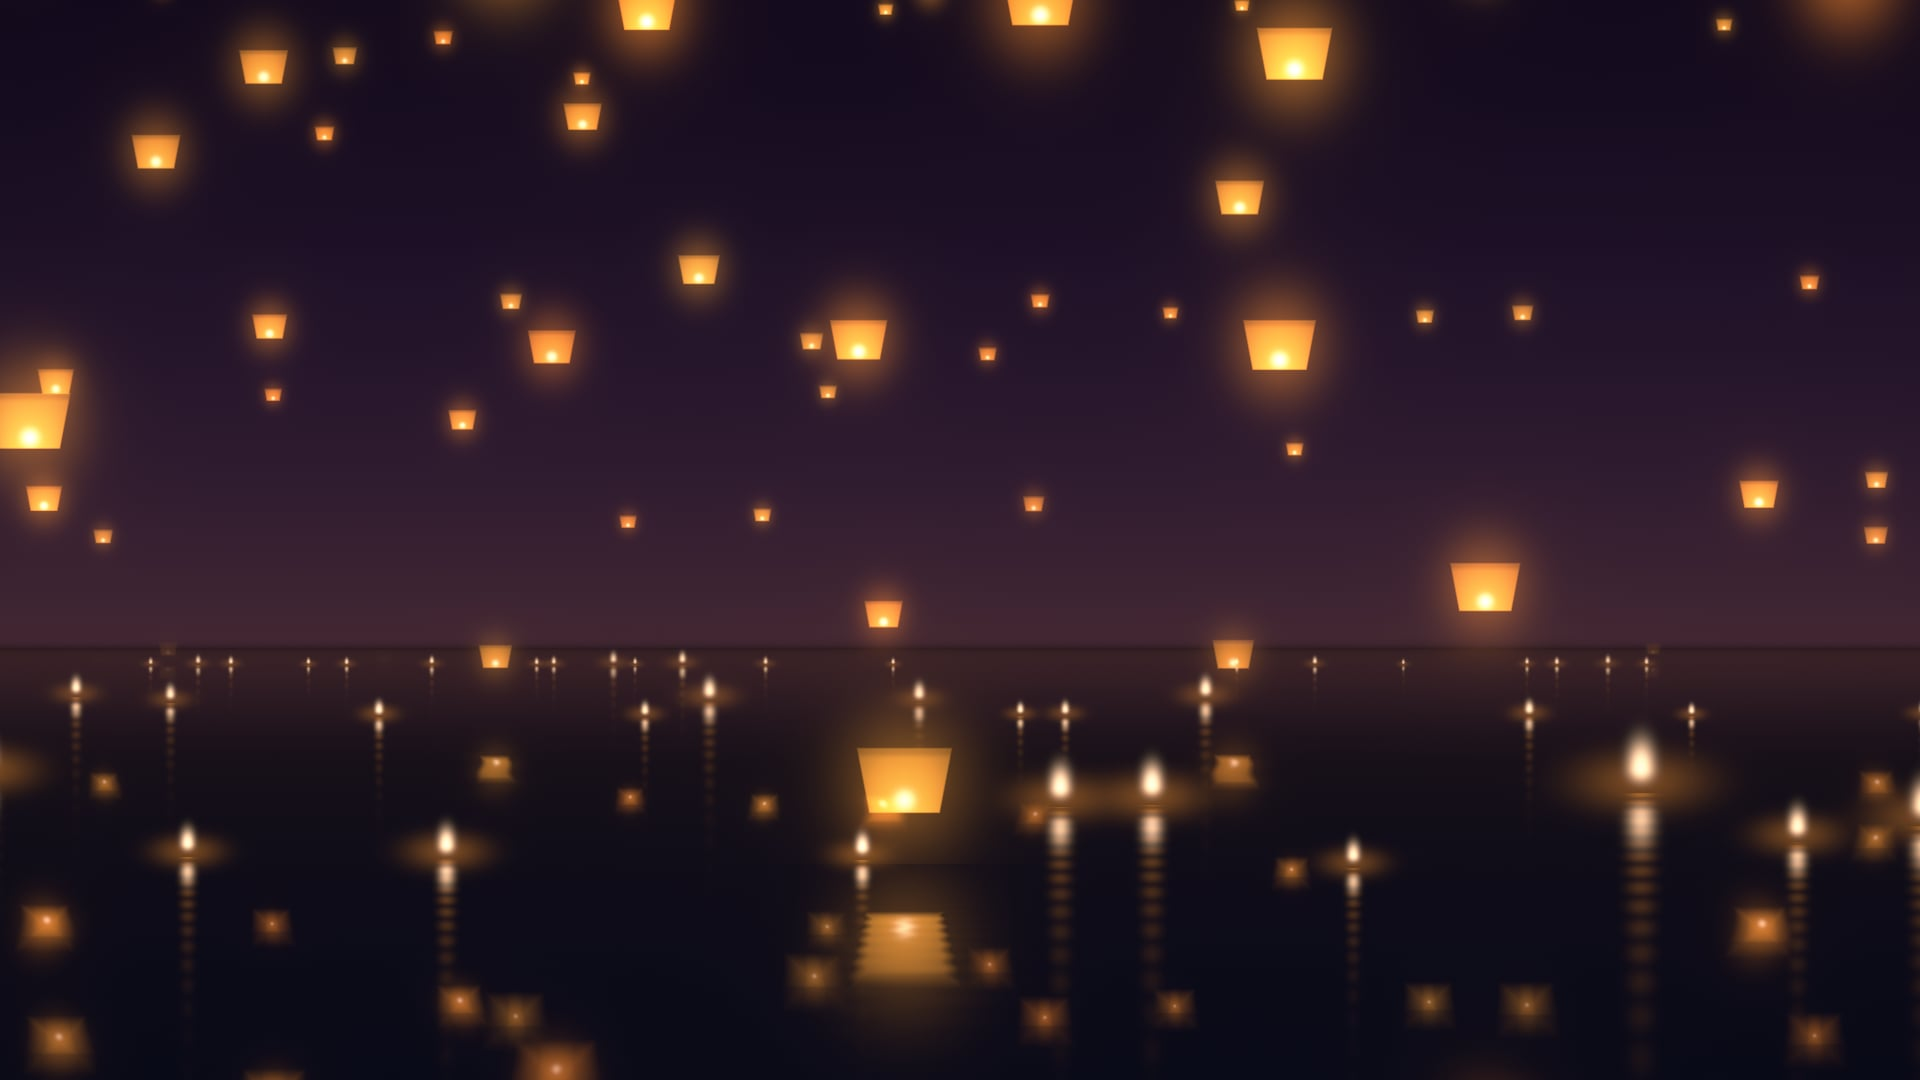
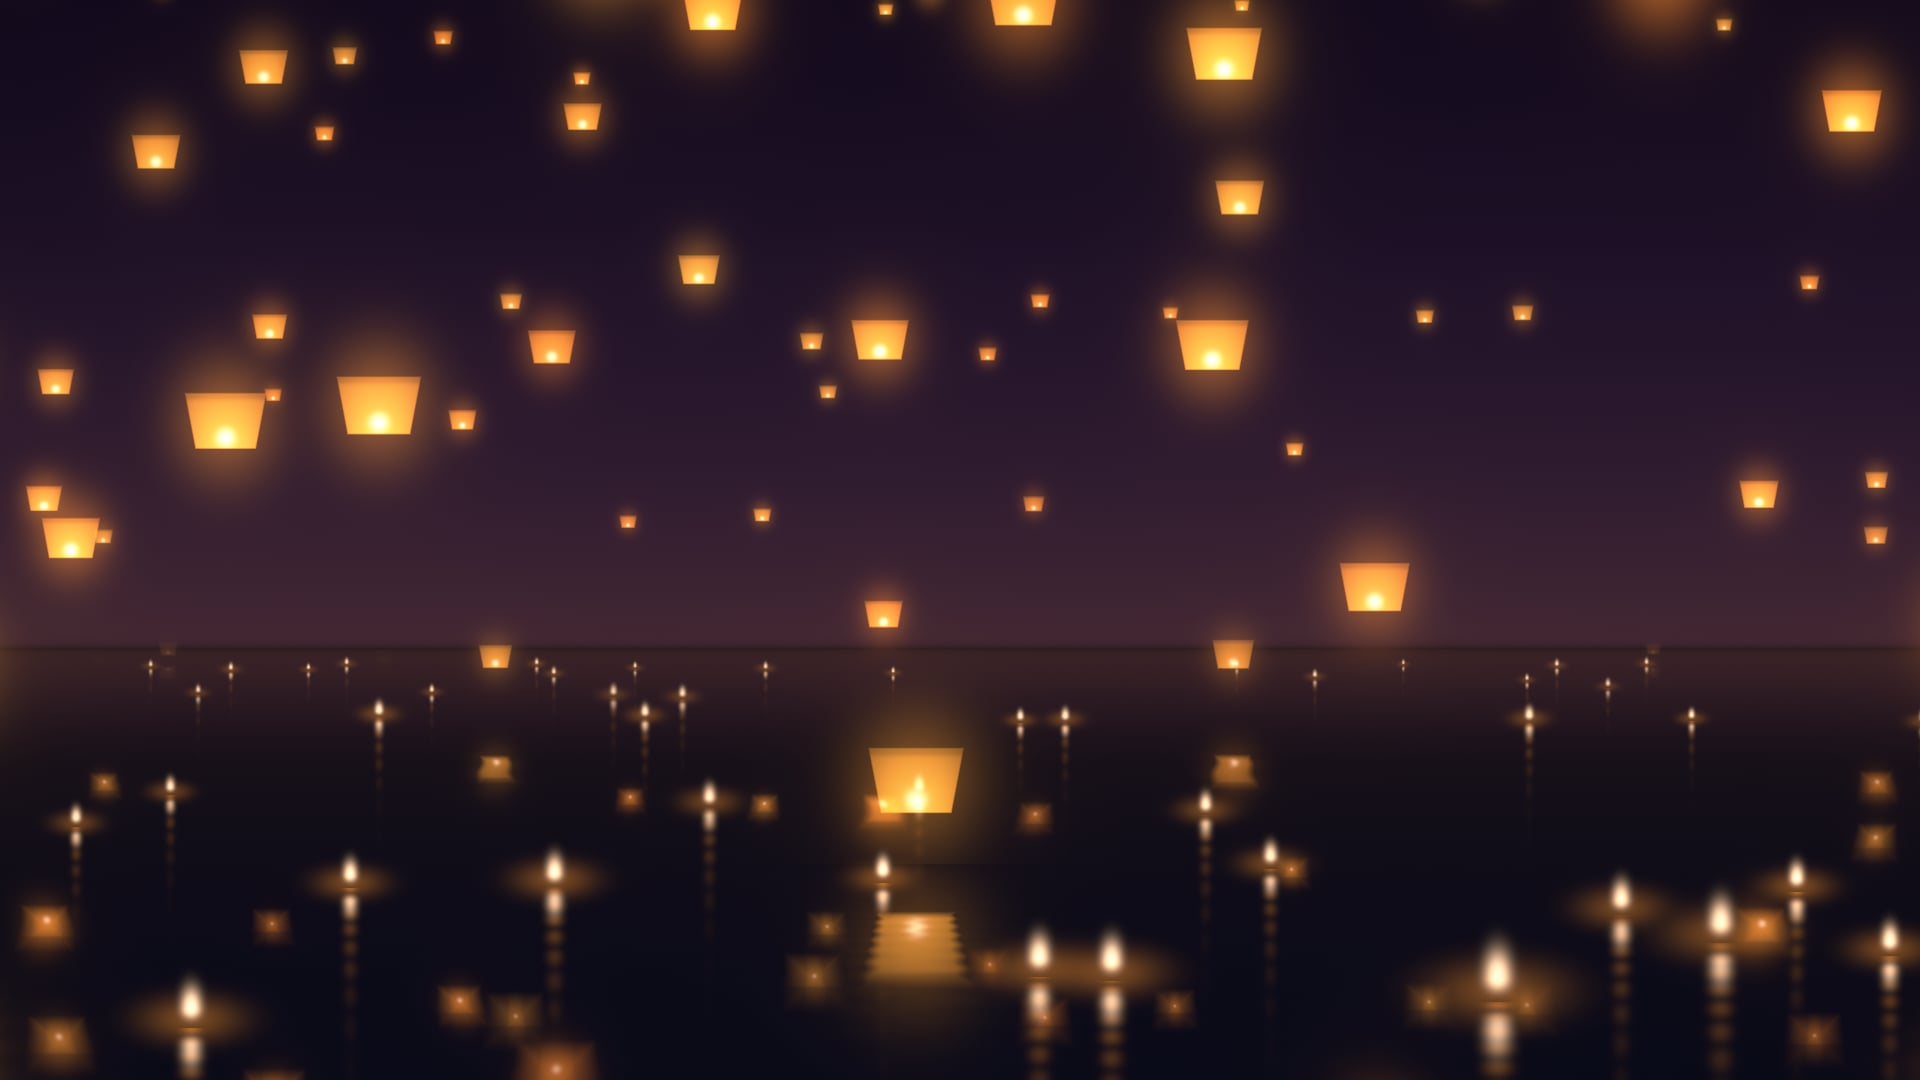
fix(live): Diya Lake lanterns climb once per loop, nearer diyas sit lower

diff --git a/src/live/scenes/diya-lake.ts b/src/live/scenes/diya-lake.ts
@@ -30,10 +30,11 @@ const presets: Preset<P>[] = [
 
 /*
  * Paper sky lanterns rising over a still lake at night, in 2.5D. Three depth layers, each with its
- * own waterline below the horizon (nearer layers lower, larger, brighter and faster), a row of
- * floating diyas on that line, and lanterns rising from it. Every lantern sits in a column of its
- * layer; its height is fract(base + k * phase) with a whole number k, so it climbs out of the water,
- * fades in, leaves past the top edge and comes back from the water k times per loop. Sway and flicker
+ * own waterline below the horizon (nearer layers lower, larger, brighter and faster, as they have
+ * further to climb in the same time), floating diyas spread in front of that line, and lanterns
+ * rising from it. Every lantern sits in a column of its layer; its height is fract(base + phase), so
+ * it climbs out of the water, fades in, leaves past the top edge and comes back from the water
+ * exactly once per loop. Sway and flicker
  * are whole numbers of turns per loop too (wrapped with fract), so phase 0 and 1 are the same frame.
  * The water is a mirror: below a layer's waterline the same lanterns are drawn mirrored about it,
  * dimmed and broken up a little by a periodic ripple, with a glitter streak under each light. Each
@@ -82,8 +83,9 @@ vec3 diyaFlame(vec2 q, float s, float flick, vec3 warm) {
 }
 
 // Everything in one depth layer: lanterns above the waterline yw, or their mirror image below it.
-// cw is the column width, s the lantern size, k whole climbs per loop, dim the haze of distance.
-vec3 layer(vec2 p, float li, float yw, float cw, float s, float k, float dim) {
+// cw is the column width, s the lantern size, band how far in front of yw its diyas spread, dim the
+// haze of distance. Every lantern climbs once per loop.
+vec3 layer(vec2 p, float li, float yw, float cw, float s, float band, float dim) {
   vec3 warm = toLinear(u_lantern);
   bool mirror = p.y < yw;
   vec2 lp = p;
@@ -106,7 +108,7 @@ vec3 layer(vec2 p, float li, float yw, float cw, float s, float k, float dim) {
       if (h0 > u_count * stream) continue;
       float h1 = hash21(key + 1.7), h2 = hash21(key + 4.3), h3 = hash21(key + 8.9);
       float ss = s * mix(0.7, 1.25, h1);
-      float u = fract(h2 + float(j) * 0.5 + k * uPhase);
+      float u = fract(h2 + float(j) * 0.5 + uPhase);
       float y = mix(yw + 0.02 * s, TOPY + 2.0 * ss, u);
       float sway = 0.18 * cw * sin(turns(1.0 + floor(h3 * 2.0)) + h1 * TAU) * smoothstep(0.0, 0.3, u);
       float x = (c + 0.25 + 0.5 * h3) * cw + sway;
@@ -120,8 +122,9 @@ vec3 layer(vec2 p, float li, float yw, float cw, float s, float k, float dim) {
       lit += lantern(lp - vec2(x, y), ss, aa, flick, tint) * fade;
     }
   }
-  // Diyas floating on the water in a band just in front of this layer's waterline, each with a
-  // glitter streak below it. Each floats on its own line, so it is mirrored about that line.
+  // Diyas floating on the water in a band in front of this layer's waterline (nearer ones lower on
+  // screen and larger), each with a glitter streak below it. Each floats on its own line, so it is
+  // mirrored about that line.
   float dc = floor(p.x / (cw * 0.7));
   for (int i = -1; i <= 1; i++) {
     float c = dc + float(i);
@@ -131,7 +134,7 @@ vec3 layer(vec2 p, float li, float yw, float cw, float s, float k, float dim) {
     float h1 = hash21(key + 2.9), h2 = hash21(key + 6.1), h3 = hash21(key + 9.4);
     float near = h3 * h3;
     float ds = s * mix(0.3, 0.45, h1) * (1.0 + 0.8 * near);
-    float dw = yw - near * 0.45 * (yw - HORIZON + 0.012) - 0.004;
+    float dw = yw - near * band - 0.004;
     float x = (c + 0.15 + 0.7 * h2) * cw * 0.7;
     float y = dw + ds * 0.3 + 0.08 * ds * sin(turns(1.0) + h1 * TAU);
     float flick = 0.8 + 0.15 * sin(turns(9.0 + floor(h2 * 4.0)) + h0 * TAU) + 0.05 * sin(turns(23.0) + h2 * TAU);
@@ -145,7 +148,7 @@ vec3 layer(vec2 p, float li, float yw, float cw, float s, float k, float dim) {
     if (dm) {
       float dx = p.x - x, db = dw - p.y;
       acc += warm * 0.3 * flick * exp(-dx * dx / (0.15 * ds * ds)) * exp(-db / (2.5 * ds))
-           * (0.6 + 0.4 * sin(db * 900.0 / (1.0 + db * 6.0) + turns(5.0) + h1 * TAU));
+           * (0.6 + 0.4 * sin(db * 600.0 / (1.0 + db * 6.0) + turns(5.0) + h1 * TAU));
     }
   }
   if (mirror) lit *= 0.5 * exp(-below * 1.5);
@@ -166,9 +169,9 @@ vec3 scene(vec2 uv) {
   col = mix(col, toLinear(u_water) * 0.8, 0.6 * exp(-abs(uv.y - HORIZON) * 240.0));
 
   vec2 m = uMouse * vec2(0.03, 0.01);
-  col += layer(uv + m * 0.3, 0.0, HORIZON - 0.012, 0.055, 0.009, 1.0, 0.55);
-  col += layer(uv + m * 0.6, 1.0, HORIZON - 0.06, 0.1, 0.018, 1.0, 0.8);
-  col += layer(uv + m * 1.0, 2.0, HORIZON - 0.2, 0.19, 0.036, 2.0, 1.0);
+  col += layer(uv + m * 0.3, 0.0, HORIZON - 0.012, 0.055, 0.009, 0.04, 0.55);
+  col += layer(uv + m * 0.6, 1.0, HORIZON - 0.06, 0.1, 0.018, 0.12, 0.8);
+  col += layer(uv + m * 1.0, 2.0, HORIZON - 0.2, 0.15, 0.036, 0.15, 1.0);
 
   col *= mix(1.0, 0.75, smoothstep(0.5, 1.2, length(uv * vec2(0.75, 1.0))));
   return finishDither(rolloff(max(col, 0.0)));
